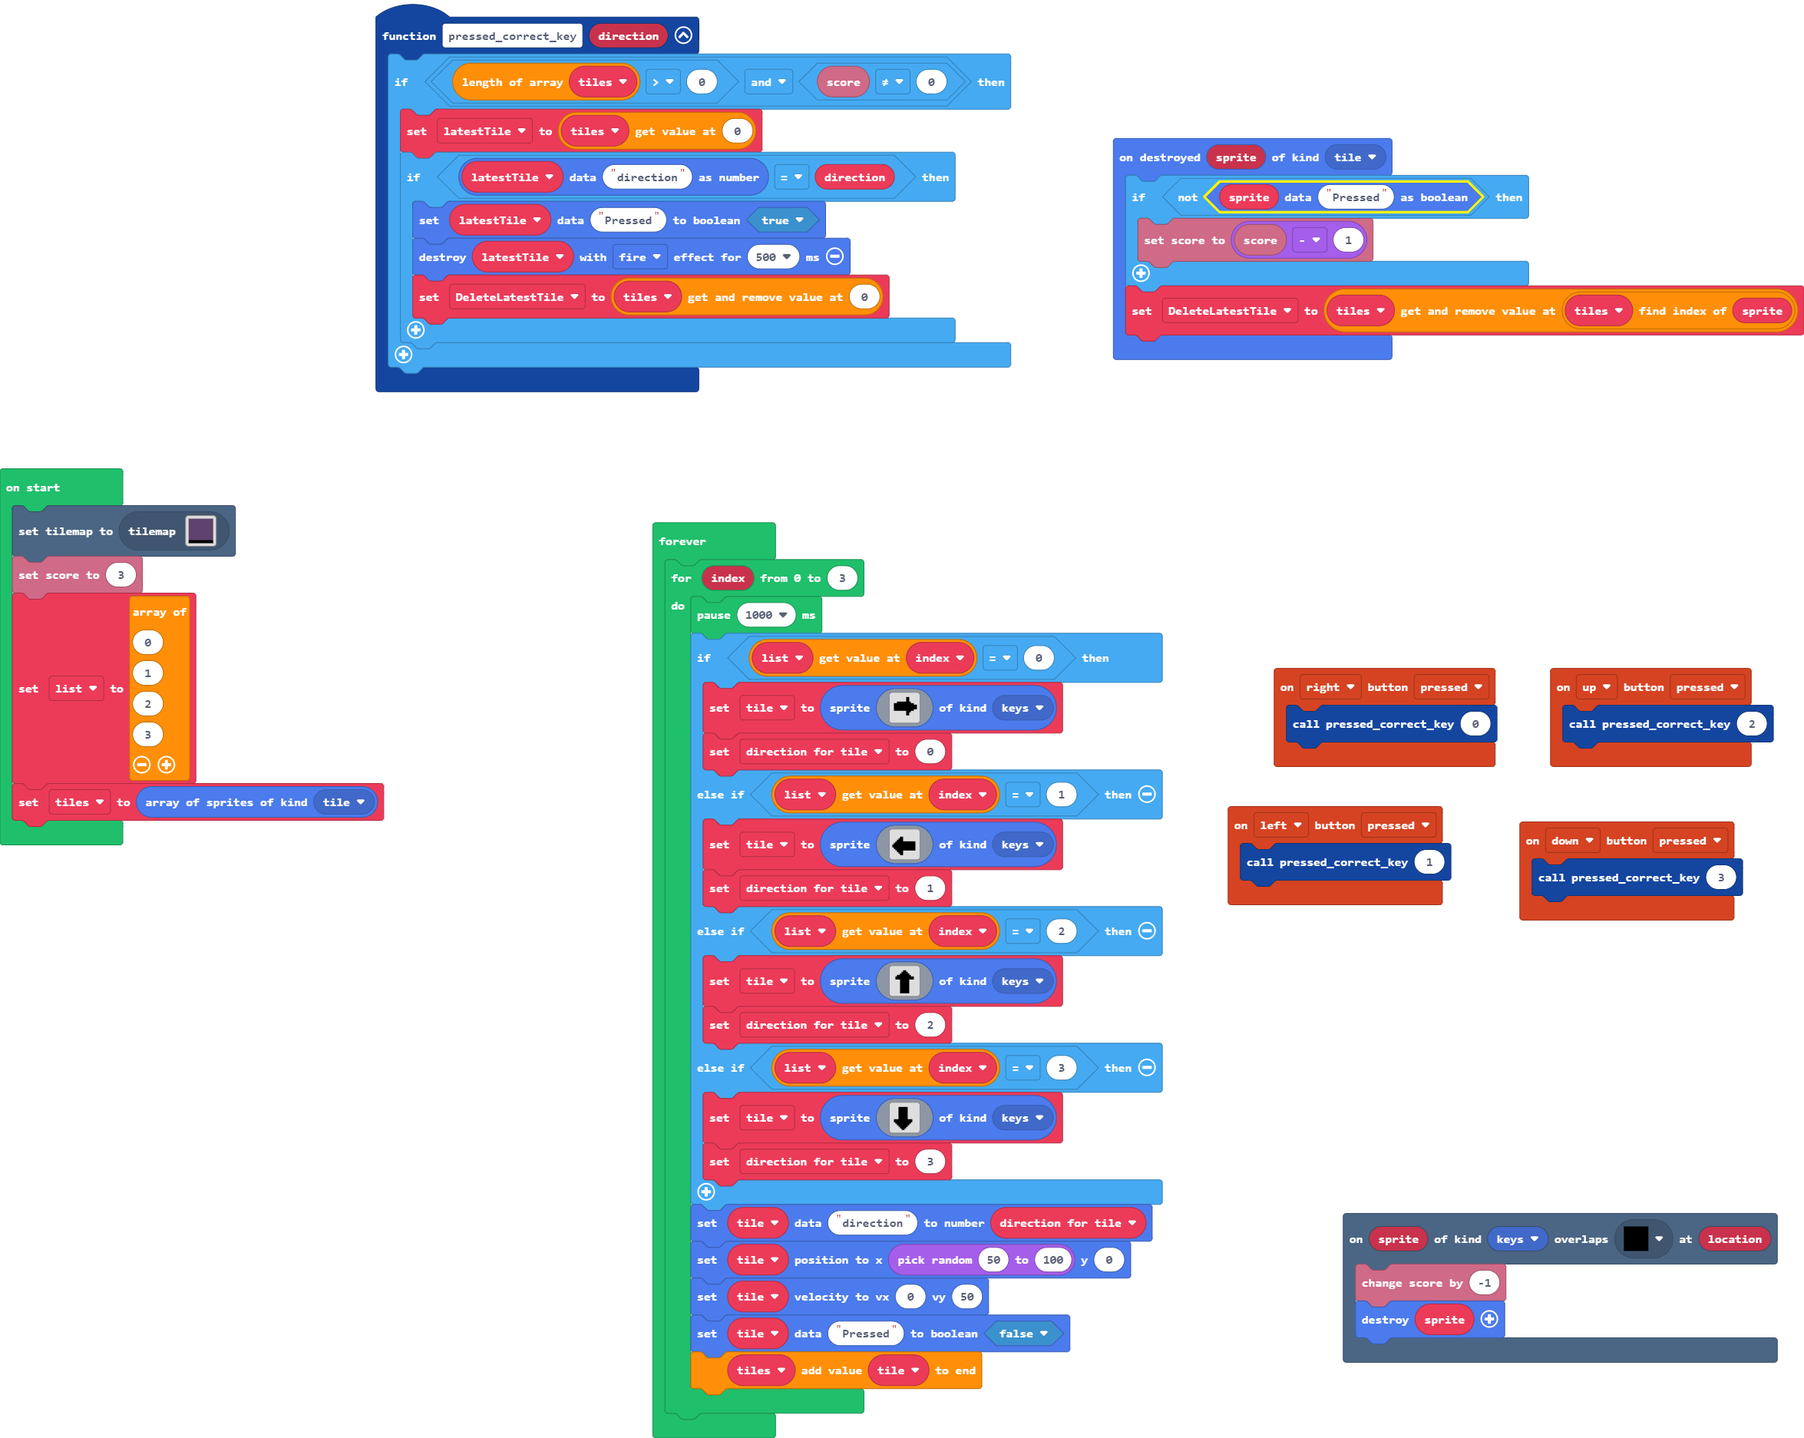
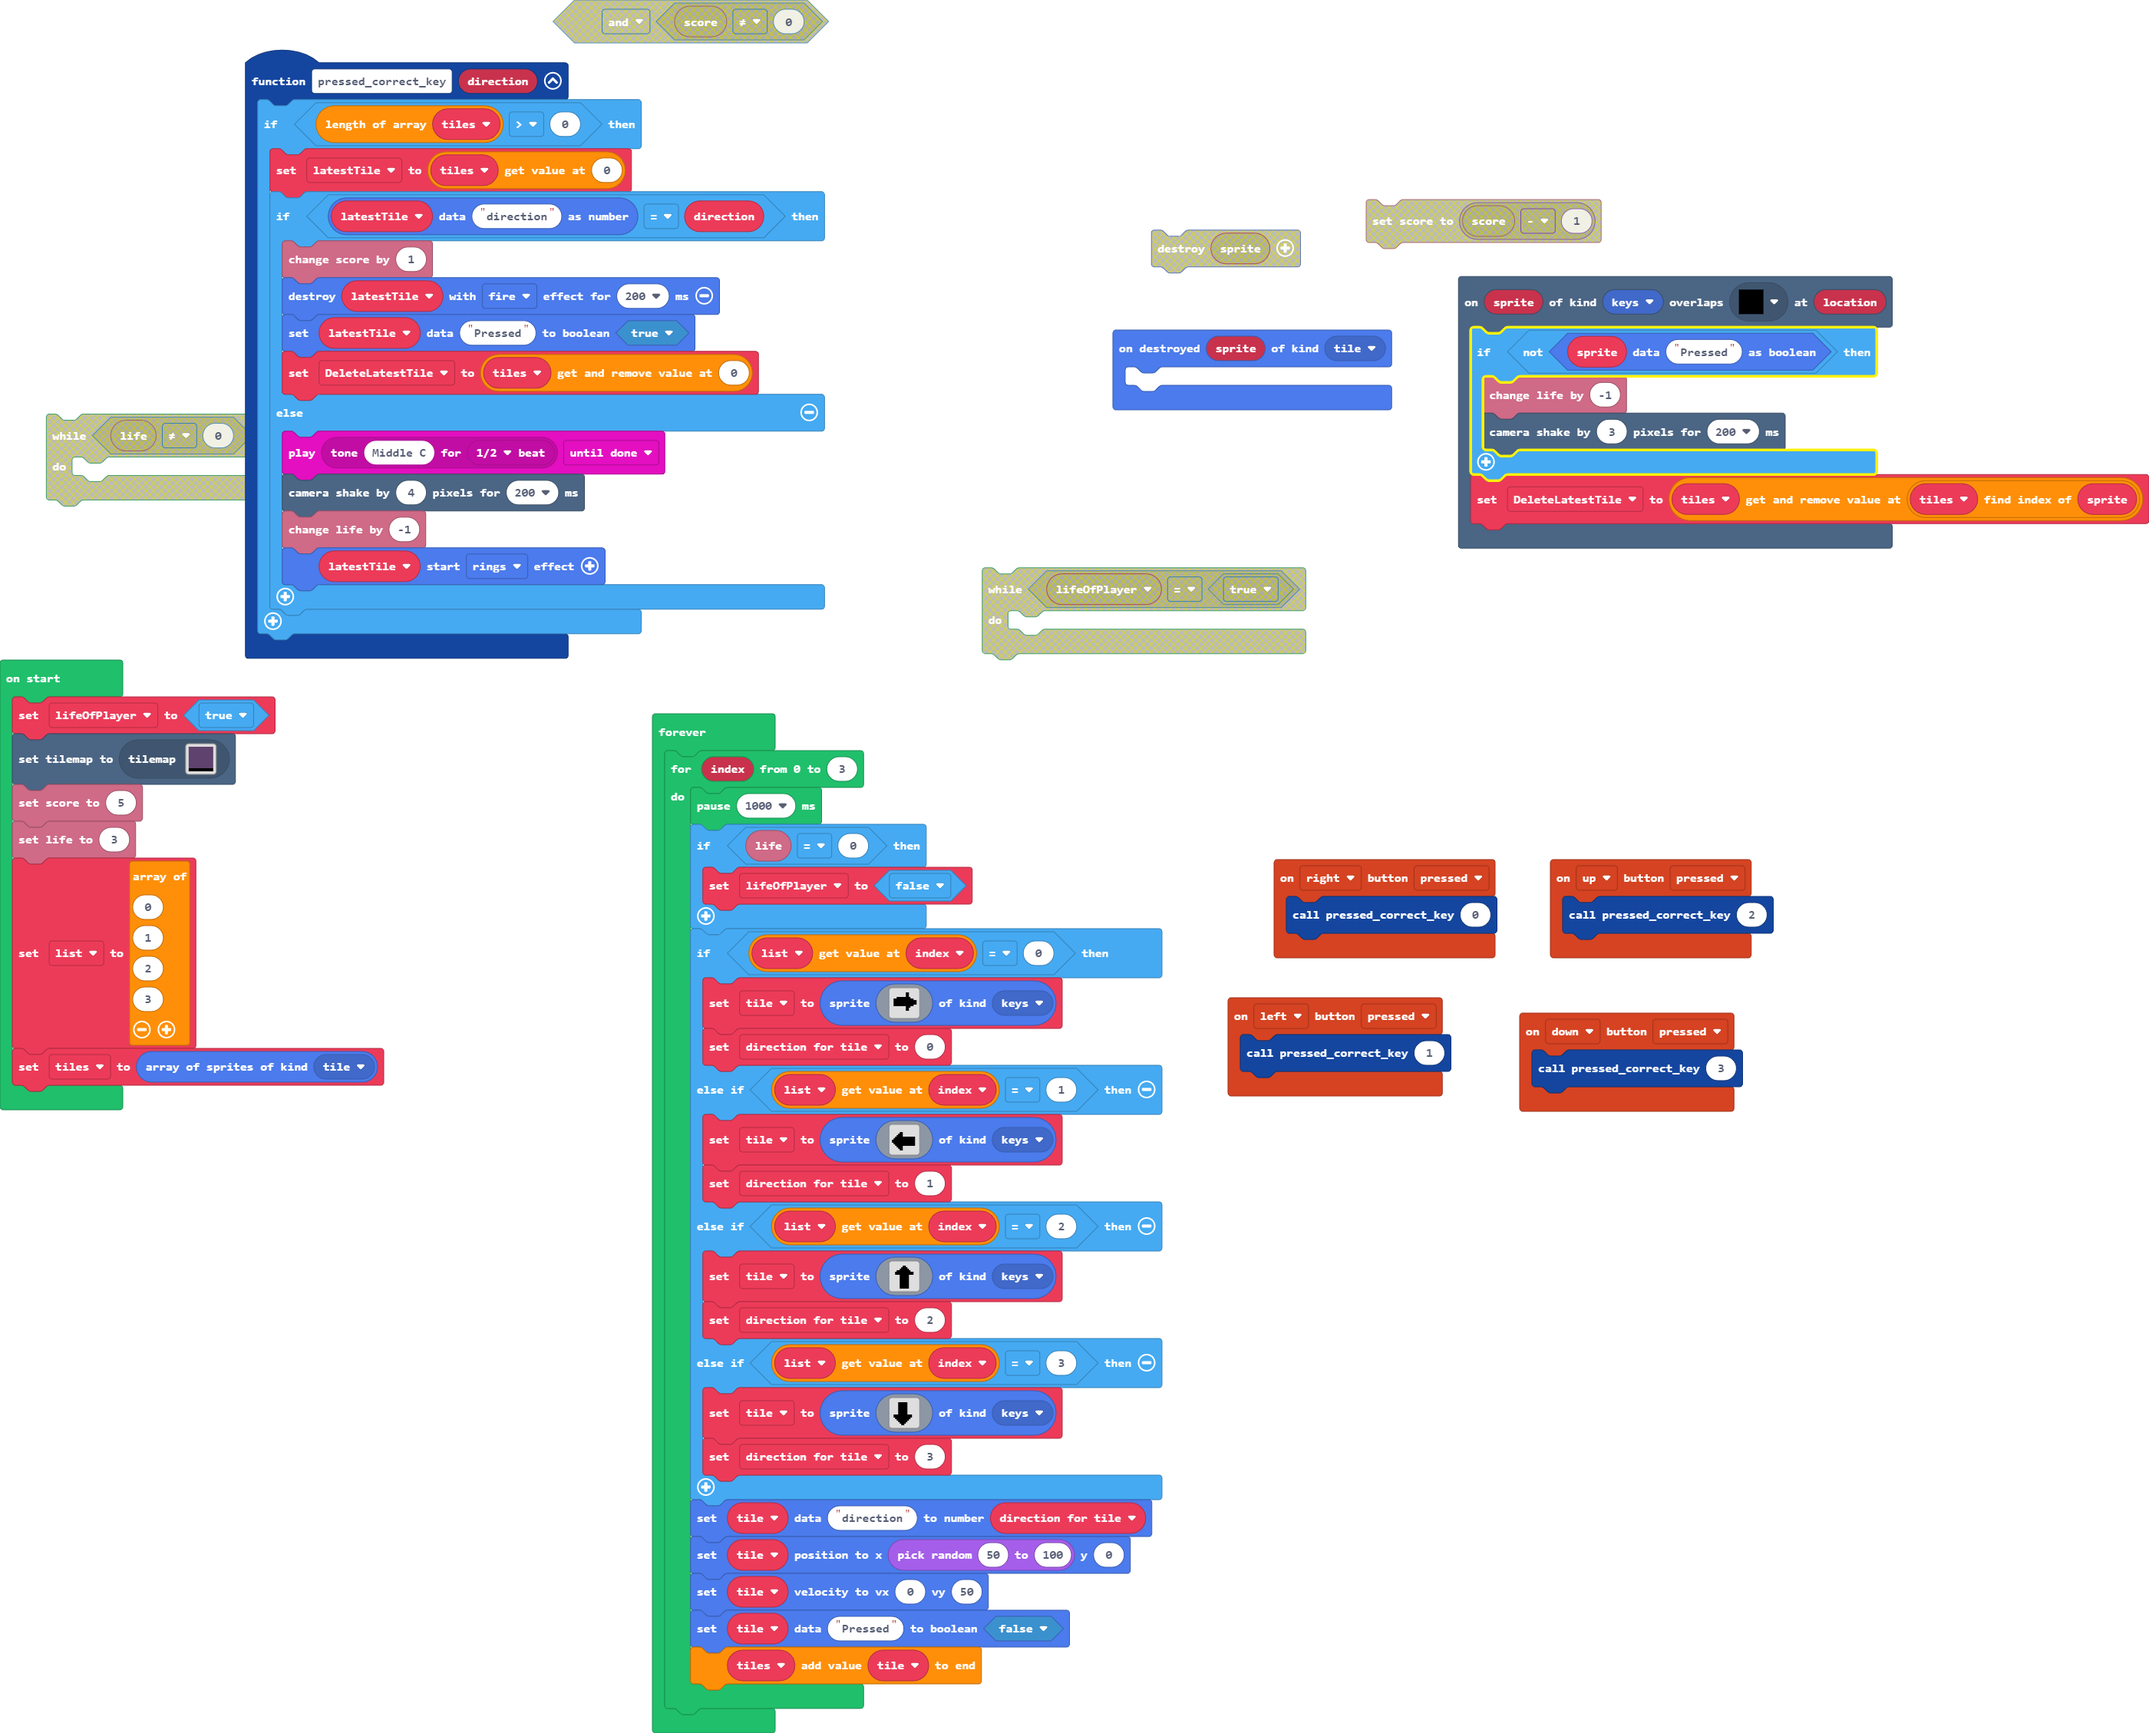
noise when wrong

diff --git a/main.ts b/main.ts
@@ -6,17 +6,17 @@ controller.up.onEvent(ControllerButtonEvent.Pressed, function () {
     pressed_correct_key(2)
 })
 scene.onOverlapTile(SpriteKind.keys, assets.tile`myTile1`, function (sprite, location) {
-    info.changeScoreBy(-1)
-    sprites.destroy(sprite)
+    if (!(sprites.readDataBoolean(sprite, "Pressed"))) {
+        info.changeLifeBy(-1)
+        scene.cameraShake(3, 200)
+    }
+    DeleteLatestTile = tiles2.removeAt(tiles2.indexOf(sprite))
 })
 controller.left.onEvent(ControllerButtonEvent.Pressed, function () {
     pressed_correct_key(1)
 })
 sprites.onDestroyed(SpriteKind.tile, function (sprite) {
-    if (!(sprites.readDataBoolean(sprite, "Pressed"))) {
-        info.setScore(info.score() - 1)
-    }
-    DeleteLatestTile = tiles2.removeAt(tiles2.indexOf(sprite))
+	
 })
 controller.right.onEvent(ControllerButtonEvent.Pressed, function () {
     pressed_correct_key(0)
@@ -25,12 +25,18 @@ controller.down.onEvent(ControllerButtonEvent.Pressed, function () {
     pressed_correct_key(3)
 })
 function pressed_correct_key (direction: number) {
-    if (tiles2.length > 0 && info.score() != 0) {
+    if (tiles2.length > 0) {
         latestTile = tiles2[0]
         if (sprites.readDataNumber(latestTile, "direction") == direction) {
+            info.changeScoreBy(1)
+            sprites.destroy(latestTile, effects.fire, 200)
             sprites.setDataBoolean(latestTile, "Pressed", true)
-            sprites.destroy(latestTile, effects.fire, 500)
             DeleteLatestTile = tiles2.removeAt(0)
+        } else {
+            music.play(music.tonePlayable(262, music.beat(BeatFraction.Half)), music.PlaybackMode.UntilDone)
+            scene.cameraShake(4, 200)
+            info.changeLifeBy(-1)
+            latestTile.startEffect(effects.rings)
         }
     }
 }
@@ -39,8 +45,10 @@ let tile: Sprite = null
 let latestTile: Sprite = null
 let DeleteLatestTile: Sprite = null
 let tiles2: Sprite[] = []
+let lifeOfPlayer = true
 tiles.setCurrentTilemap(tilemap`level1`)
-info.setScore(3)
+info.setScore(5)
+info.setLife(3)
 let list = [
 0,
 1,
@@ -51,6 +59,9 @@ tiles2 = sprites.allOfKind(SpriteKind.tile)
 forever(function () {
     for (let index = 0; index <= 3; index++) {
         pause(1000)
+        if (info.life() == 0) {
+            lifeOfPlayer = false
+        }
         if (list[index] == 0) {
             tile = sprites.create(img`
                 . . . . . . . . . . . . . . . . 
